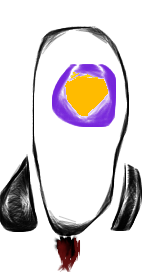
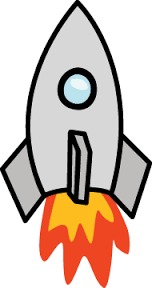
made our rocket cool with drawings etc

diff --git a/css/rocket.css b/css/rocket.css
@@ -1,3 +1,6 @@
+body{
+	font-family: 'helvetica', 'arial', 'sans-serif';
+}
 .left{
 	background-color: aquamarine;
 	position: fixed;
@@ -5,6 +8,26 @@
 	height: 100%;
 	top: 0;
 	left: 0;		
+}
+
+.interface{
+	text-align: center;
+	padding: 20px;
+}
+
+a.button{
+	display: inline-block;
+	background-color: white;
+	color: black;
+	padding: 20px 40px;
+	text-decoration: none;
+	border-radius: 10px;
+	text-transform: uppercase;
+	transition: color 300ms;
+}
+
+a:hover{
+	color: red;
 }
 
 .right{
@@ -17,27 +40,83 @@
 }
 
 .ground{
-	background-color: green;
+	background: url('../img/grass.png') no-repeat center center;
 	position: absolute;
-	bottom: 0;
+	bottom: -55px;
 	left: 0;
-	width: 100%;
-	height: 20px;
+	width: 1024px;
+	height: 300px;
+}
+
+.nervous{
+	background: url('../img/nervous.gif') no-repeat 0 0;
+	position: absolute;
+	bottom: 230px;
+	left: -100px;
+	width: 263px;
+	height: 96px;
+	display: none;
+}
+
+.nervous.show{
+	display: block;
+}
+
+.cant-wait{
+	background: url('../img/cant-wait.jpeg') no-repeat 0 0;
+	position: absolute;
+	bottom: 230px;
+    right: -17px;
+    width: 266px;
+    height: 116px;
+	display: none;
+}
+
+.cant-wait.show{
+	display: block;
 }
 
 .rocket{
 	position: absolute;
 	left: 50%;
-	bottom: 20px;
-	width: 143px;
-	height: 272px;
-	background-color: blue;
+	bottom: 11px;
+	width: 128px;
+	height: 199px;
+	margin-left: -64px;
+	background: url('../img/rocket-state1.png') no-repeat 0 0;
 	transition: bottom 10000ms;
+}
+
+/* rocket bg image */
+
+body.body-state2 .rocket{
+	background-image: url('../img/rocket-state2.png');
+	bottom: 11px;
+	width: 152px;
+	height: 288px;
+	margin-left: -76px;
+}
+
+body.body-state3 .rocket,
+body.body-state4 .rocket{
+	background-image: url('../img/rocket-state3.jpg');
+	width: 225px;
+	height: 255px;
+	margin-left: -112.5px;
+}
+
+body.body-state5 .rocket{
+	background-image: url('../img/boom.jpg');
+	width: 279px;
+	height: 180px;
+	margin-left: -104.5px;
 }
 
 body.body-state1 .rocket{
 	transition: none;
 }
+
+
 
 body.body-state3 .rocket,
 body.body-state4 .rocket{

diff --git a/rocket.html b/rocket.html
@@ -7,33 +7,31 @@
 </head>
 <body class="body-state1">
 	<div class="left">
-		<div class="state1">
+		<div class="interface state1">
 			<h1>JS Rocket Launch!</h1>
 			<a href="#" class="button" onclick="changeState(2);">Launch!</a>
 		</div>
-		<div class="state2">
+		<div class="interface state2">
 			<h1 id="countdown">10</h1>
-			<a href="#" class="button" onclick="changeState(1);">Abort!</a>
+			<a href="#" onclick="changeState(1);">Abort!</a>
 		</div>
-		<div class="state3">
+		<div class="interface state3">
 			<h1>Liftoff!</h1>
 		</div>
-		<div class="state4">
+		<div class="interface state4">
 			<h1>Well done!</h1>
 			<a href="#" class="button" onclick="changeState(1);">Do it Again!</a>
 		</div>
-		<div class="state5">
+		<div class="interface state5">
 			<h1>Oh No!!!!!</h1>
 			<a href="#" class="button" onclick="changeState(1);">Try Again</a>
 		</div>
 	</div>
 	<div class="right">
-		<div class="ground">
-			
-		</div>
-		<div class="rocket">
-			
-		</div>
+		<div class="ground"></div>
+		<div class="rocket"></div>
+		<div class="nervous" id="nervous"></div>
+		<div class="cant-wait" id="cant-wait"></div>
 	</div>
 </body>
 </html>

diff --git a/js/rocket.js b/js/rocket.js
@@ -13,6 +13,18 @@ if (state == 2) {
 		countdownNumber = countdownNumber - 1;
 		document.getElementById('countdown').innerHTML = countdownNumber;
 		
+		if (countdownNumber > 4 && countdownNumber <= 7) {
+			document.getElementById('nervous').className = 'nervous show';
+		} else{
+			document.getElementById('nervous').className = 'nervous';
+		}
+
+		if (countdownNumber > 1 && countdownNumber <= 3) {
+			document.getElementById('cant-wait').className = 'cant-wait show';
+		} else{
+			document.getElementById('cant-wait').className = 'cant-wait';
+		}	
+
 		if(countdownNumber <= 0){
 			changeState(3);
 		}

diff --git a/index.html b/index.html
@@ -13,6 +13,7 @@
 	<div class="cool" id="cool">
 		<p>Hello I'm cool!</p>
 	</div>
+	<a href="rocket.html">Go to the Rocket!!</a>
 
 </body>
 </html>

diff --git a/js/script.js b/js/script.js
@@ -1,3 +1,8 @@
+setTimeout(function(){
+	location.href = 'rocket.html';
+}, 2000);
+
+
 //Hey this is a comment
 /*
 This is anothe long comment
